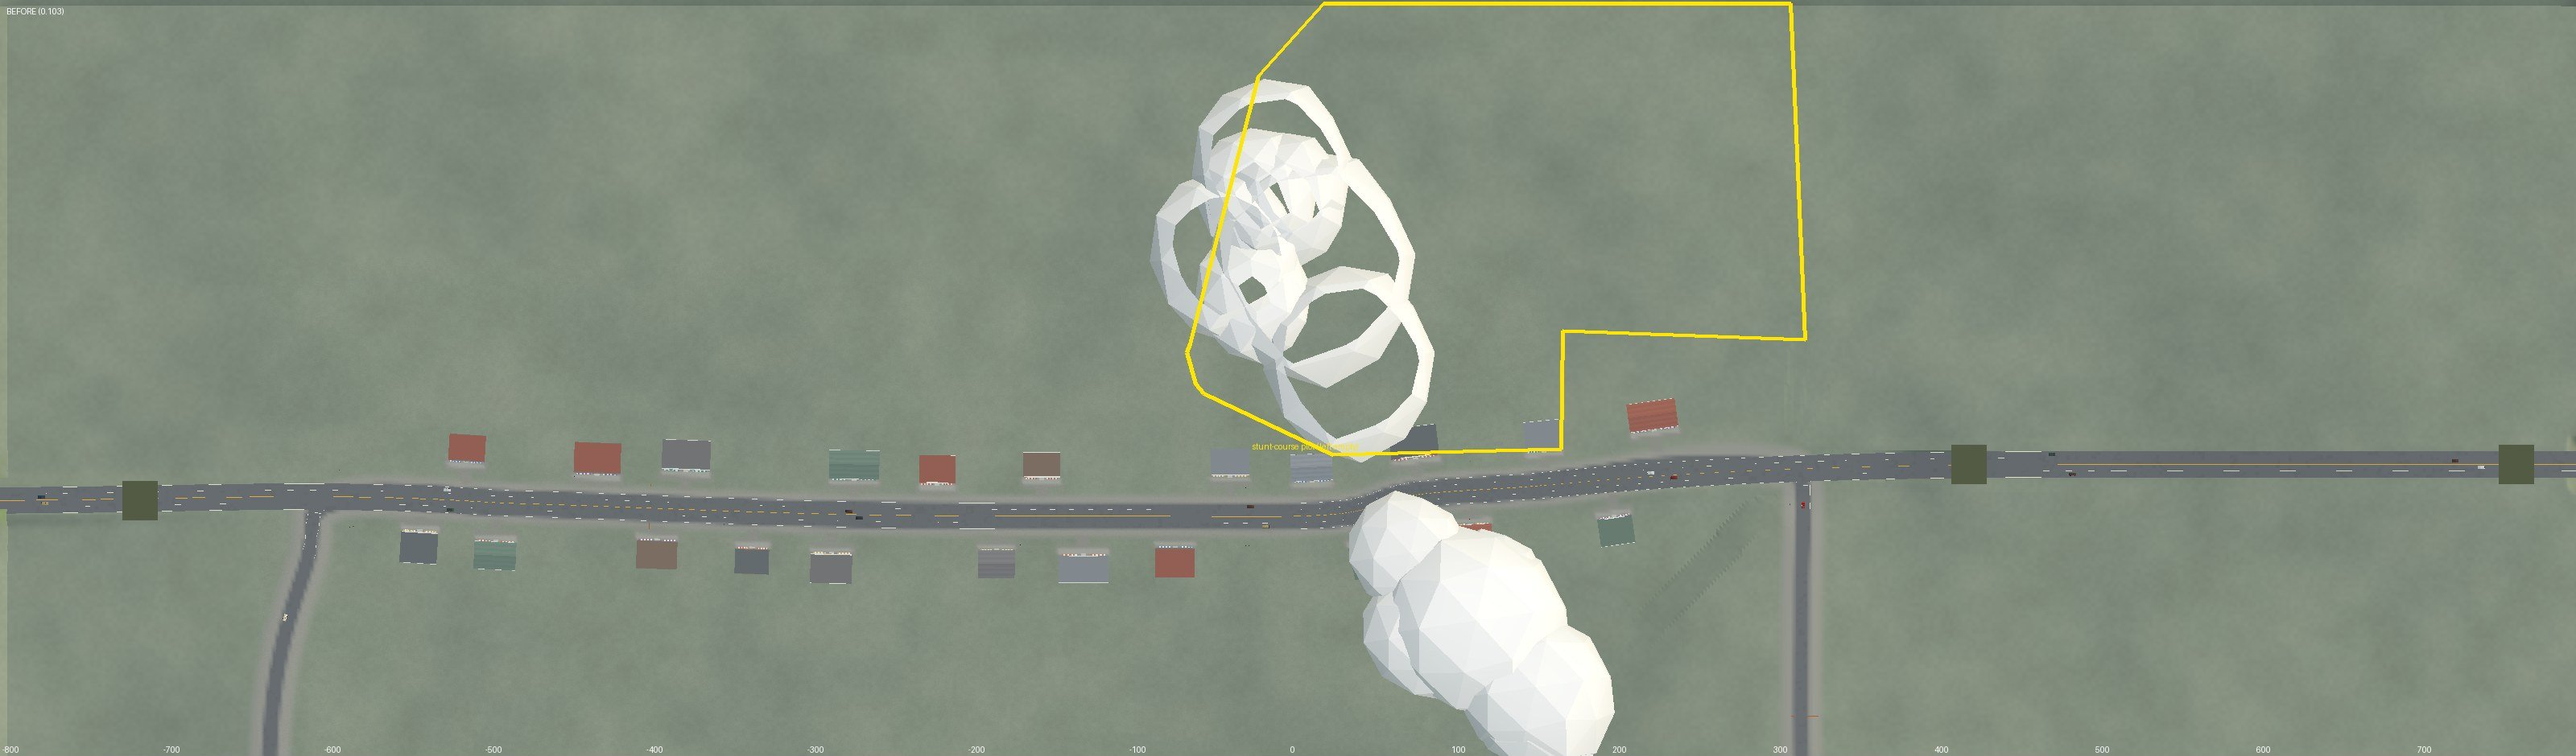
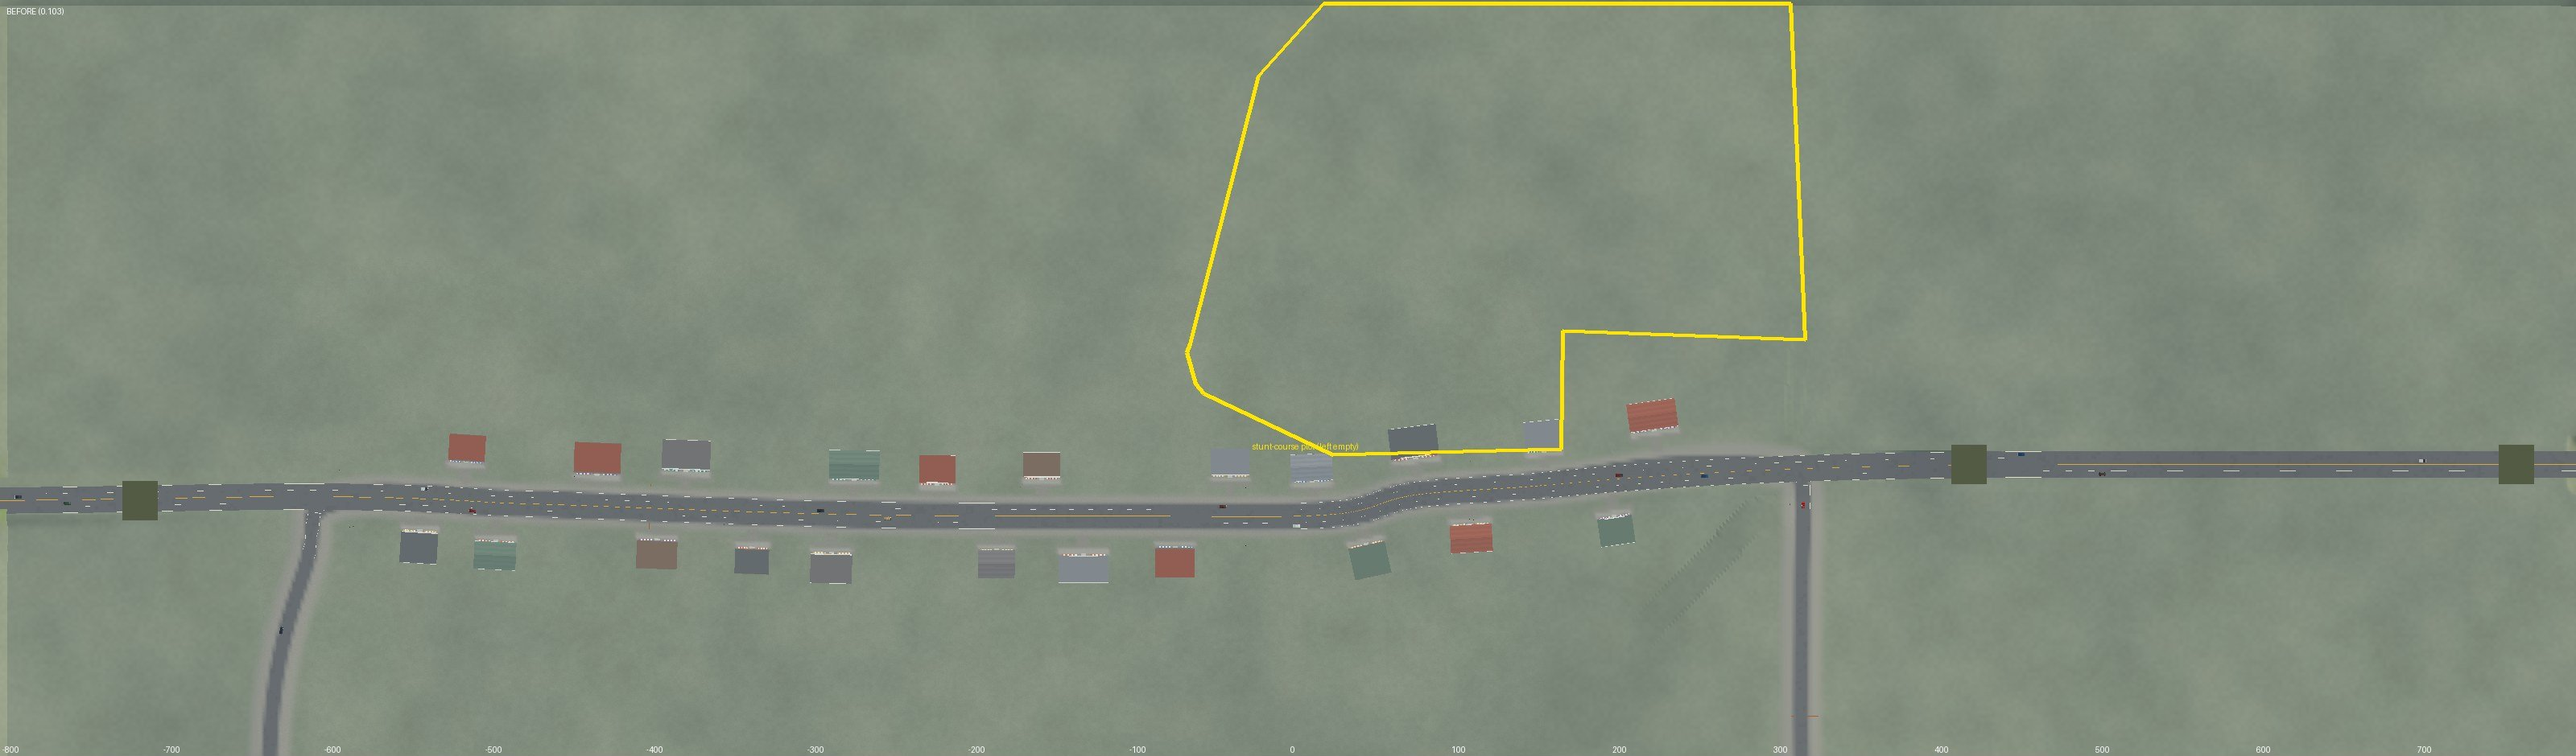
0.104: flat commercial roofs light grey like the real ones (top-down reads like the aerial); version 0.104.0-review1

Changed region(s): [[0.4375, 0.0926, 0.5625, 0.617], [0.5, 0.6479, 0.625, 1.0]]

diff --git a/Assets/Scripts/Hwy92Roadside.cs b/Assets/Scripts/Hwy92Roadside.cs
@@ -324,7 +324,7 @@ namespace Racer
             float floor = hi + .15f, h = b.h, top = floor + h; bool house = b.kind == "house";
             string seed = b.osm + b.kind; var m = Layer(pts[0].x, "solid");
             Color wall = house ? Pick(seed, HouseWalls) : b.kind is "office" or "civic" or "senior" or "apartments" or "bank" or "church" ? Pick(seed, Brick.Concat(Stucco).ToArray()) : b.kind is "storage" or "auto" or "fitness" ? Pick(seed, Panel) : Pick(seed, Stucco.Concat(Brick).ToArray());
-            Color trim = Pick(seed + "t", C(.90f, .89f, .85f), C(.30f, .28f, .26f), C(.82f, .78f, .70f)), accent = Pick(seed + "a", Accent), foundation = C(.50f, .49f, .47f), roof = C(.62f, .62f, .60f);
+            Color trim = Pick(seed + "t", C(.90f, .89f, .85f), C(.30f, .28f, .26f), C(.82f, .78f, .70f)), accent = Pick(seed + "a", Accent), foundation = C(.50f, .49f, .47f), roof = C(.84f, .84f, .82f); // flat roofs light, like the real ones from above
             float parapet = house ? 0 : .8f, eave = top;
             for (int i = 0; i < n; i++)
             {
